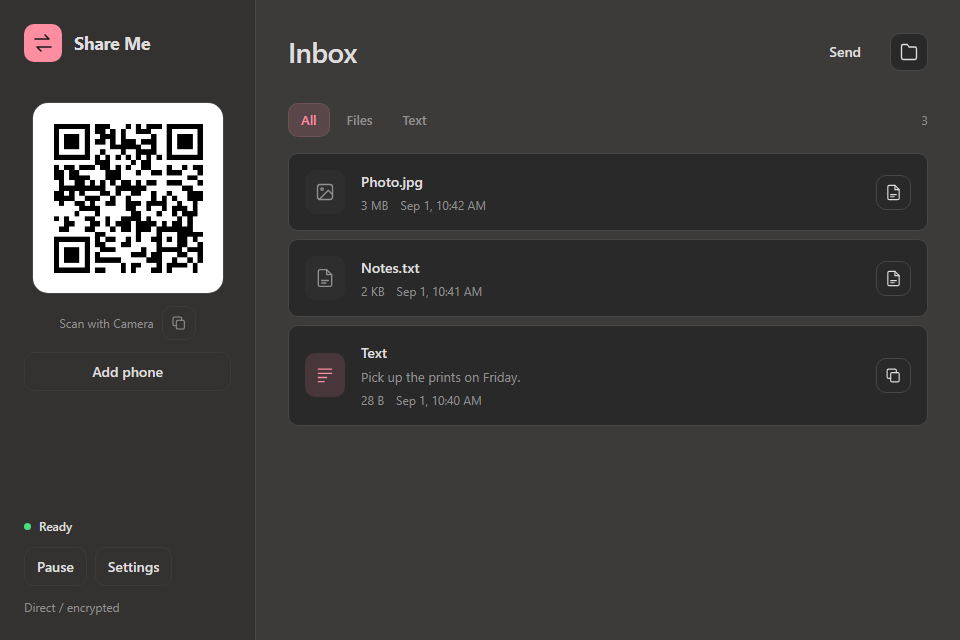
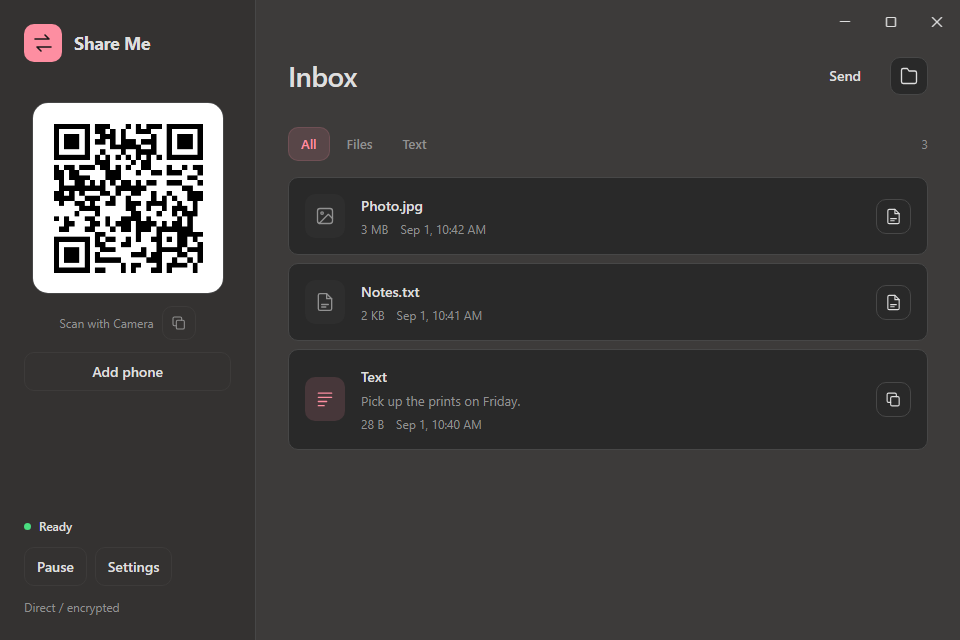
Draw the title bar inside the app
The system title bar did not match the app: a different color, a second copy of the name, and a small caption strip above the content. The window is now frameless and the page draws the title bar itself, so the sidebar and the inbox run to the top edge, the drag area is taller, and the caption buttons use the Windows 11 glyphs, sizes, and hover colors.

Windows still supplies the shadow, rounded corners, snapping, and keyboard window commands. Dragging and edge resizing go through the Wails frameless support. Double-click toggles maximize, Close goes through the same before-close path as before so it still hides to the tray, and the buttons never take focus. A modal dialog makes the rest of the page inert, so the title bar moves into the open dialog and the window can still be moved, minimized, and closed while a prompt is showing.

Checked in the packaged build: maximize and restore, double-click, drag, minimize to tray, close to tray from the corner while maximized, and the dimmed buttons of an inactive window. The site screenshots are recaptured.

diff --git a/frontend/tests/desktop.spec.js b/frontend/tests/desktop.spec.js
@@ -44,6 +44,17 @@ const test = base.extend({
         App[method] = (...args) => window.desktopAction(method, args);
       }
       window.go = { main: { App } };
+      let maximized = false;
+      window.runtime = {
+        WindowMinimise: () => window.desktopAction('WindowMinimise', []),
+        WindowToggleMaximise: () => {
+          maximized = !maximized;
+          window.desktopAction('WindowToggleMaximise', []);
+          window.dispatchEvent(new Event('resize'));
+        },
+        WindowIsMaximised: async () => maximized,
+        Quit: () => window.desktopAction('Quit', []),
+      };
     });
     const errors = [];
     page.on('pageerror', error => errors.push(error.message));
@@ -112,7 +123,7 @@ test.describe('dropdown focus outlines', () => {
   for (const width of [800, 960]) {
     for (const queued of [0, 20]) {
       test(`remain visible at ${width}px with ${queued} queued transfers`, async ({ page, desktop }, testInfo) => {
-        await page.setViewportSize({ width, height: 520 });
+        await page.setViewportSize({ width, height: 560 });
         desktop.state.outbox = Array.from({ length: queued }, (_, i) => ({
           id: `file-${i}`, deviceId: 'phone-1', name: `Queued file ${i + 1}.txt`, kind: 'file', size: 16,
         }));
@@ -163,7 +174,7 @@ for (const colorScheme of ['light', 'dark']) {
   test(`settings fills the workspace at minimum size in ${colorScheme} mode`, async ({ page, desktop }, testInfo) => {
     await page.emulateMedia({ colorScheme });
     await page.reload();
-    await page.setViewportSize({ width: 800, height: 520 });
+    await page.setViewportSize({ width: 800, height: 560 });
     await page.getByRole('button', { name: 'Send', exact: true }).click();
     await page.getByRole('combobox', { name: 'Send to' }).selectOption('phone-2');
     await page.getByRole('button', { name: 'Settings', exact: true }).click();
@@ -196,6 +207,44 @@ for (const colorScheme of ['light', 'dark']) {
     await expect(panel).toBeHidden();
   });
 }
+
+test('the title bar drags the window and its buttons work, even over a dialog', async ({ page, desktop }) => {
+  await page.setViewportSize({ width: 800, height: 560 });
+  const drag = node => getComputedStyle(node).getPropertyValue('--wails-draggable').trim();
+  const titlebar = page.locator('.titlebar');
+  const controls = page.getByRole('group', { name: 'Window', exact: true });
+  expect(await titlebar.evaluate(drag)).toBe('drag');
+  expect(await controls.evaluate(drag)).toBe('no-drag');
+  expect(await controls.getByRole('button').evaluateAll(buttons => buttons.map(button => button.tabIndex))).toEqual([-1, -1, -1]);
+  // The page's own buttons must sit clear of the caption buttons above them.
+  const bar = await controls.boundingBox();
+  expect(bar.x + bar.width).toBe(800);
+  expect(bar.y).toBe(0);
+  for (const name of ['Send', 'Open inbox folder']) {
+    expect((await page.getByRole('button', { name, exact: true }).boundingBox()).y).toBeGreaterThanOrEqual(bar.height + 8);
+  }
+  await page.getByRole('heading', { name: 'Inbox', exact: true }).focus();
+  await controls.getByRole('button', { name: 'Minimize', exact: true }).click();
+  await controls.getByRole('button', { name: 'Maximize', exact: true }).click();
+  await expect(controls.getByRole('button', { name: 'Restore', exact: true })).toHaveAttribute('title', 'Restore');
+  await expect(page.getByRole('heading', { name: 'Inbox', exact: true })).toBeFocused();
+  await titlebar.dblclick({ position: { x: 300, y: 12 } });
+  await expect(controls.getByRole('button', { name: 'Maximize', exact: true })).toBeVisible();
+  expect(desktop.calls).toEqual([['WindowMinimise'], ['WindowToggleMaximise'], ['WindowToggleMaximise']]);
+  // A modal dialog makes the page inert, so the title bar has to follow the dialog.
+  desktop.state.pending = [{ id: 'incoming-1', kind: 'text', state: 'pending', name: 'Text', size: 8, source: 'iPhone', preview: 'Hello PC' }];
+  const dialog = page.getByRole('dialog', { name: 'Receive text?' });
+  await expect(dialog).toBeVisible();
+  expect(await titlebar.evaluate(drag)).toBe('drag');
+  expect(await titlebar.evaluate(node => node.getBoundingClientRect().toJSON())).toMatchObject({ x: 0, y: 0, width: 800, height: 44 });
+  await dialog.getByRole('button', { name: 'Close', exact: true }).click();
+  expect(desktop.calls).toContainEqual(['Quit']);
+  await dialog.getByRole('button', { name: 'Decline', exact: true }).click();
+  await expect(page.getByRole('dialog')).toHaveCount(0);
+  await expect(page.locator('.desktop-shell > .titlebar')).toBeVisible();
+  await controls.getByRole('button', { name: 'Minimize', exact: true }).click();
+  expect(desktop.calls.filter(call => call[0] === 'WindowMinimise')).toHaveLength(2);
+});
 
 test('network controls track sidebar pause and paired phone actions remain available', async ({ page, desktop }) => {
   await page.getByRole('button', { name: 'Settings', exact: true }).click();
@@ -242,7 +291,7 @@ for (const colorScheme of ['light', 'dark']) {
   test(`rename opens a focused dialog and supports cancellation in ${colorScheme} mode`, async ({ page, desktop }, testInfo) => {
     await page.emulateMedia({ colorScheme });
     await page.reload();
-    await page.setViewportSize({ width: 800, height: 520 });
+    await page.setViewportSize({ width: 800, height: 560 });
     await page.getByRole('button', { name: 'Settings', exact: true }).click();
     const button = page.getByRole('group', { name: 'iPhone', exact: true }).getByRole('button', { name: 'Rename', exact: true });
     await expect(page.getByRole('region', { name: 'Paired phones' }).getByRole('textbox')).toHaveCount(0);

diff --git a/frontend/src/desktop.js b/frontend/src/desktop.js
@@ -59,7 +59,22 @@ for (const [value, label] of [['all', 'All'], ['file', 'Files'], ['text', 'Text'
 
 const inboxToolbar = el('div', { class: 'inbox-toolbar' }, tabs, count);
 const inboxSurface = el('section', { class: 'inbox-surface' }, list, empty);
-root.append(el('div', { class: 'desktop-shell minimal-desktop' },
+
+// The window has no system title bar. This strip across the top is its drag area and holds the
+// caption buttons, which like the system's never take focus.
+function captionButton(label, glyph, onclick) {
+  return el('button', { tabindex: -1, title: label, 'aria-label': label, onclick, onmousedown: event => event.preventDefault() }, glyph);
+}
+const maximize = captionButton('Maximize', '\uE922', () => window.runtime?.WindowToggleMaximise?.());
+const titlebar = el('div', { class: 'titlebar', ondblclick: event => {
+  if (event.target === titlebar) window.runtime?.WindowToggleMaximise?.();
+} },
+  el('div', { class: 'window-controls', role: 'group', 'aria-label': 'Window' },
+    captionButton('Minimize', '\uE921', () => window.runtime?.WindowMinimise?.()),
+    maximize,
+    // Quit asks the app first, which hides to the tray when that option is on.
+    captionButton('Close', '\uE8BB', () => window.runtime?.Quit?.())));
+const shell = el('div', { class: 'desktop-shell minimal-desktop' },
   el('aside', { class: 'sidebar' },
     brand(),
     el('section', { class: 'pair-panel', 'aria-label': 'Open on your phone' }, qr,
@@ -71,7 +86,31 @@ root.append(el('div', { class: 'desktop-shell minimal-desktop' },
   el('main', { class: 'workspace' },
     el('header', { class: 'workspace-header' }, heading, el('div', { class: 'cluster' }, changeView, openFolder, closeSettingsButton)),
     banner, active,
-    inboxToolbar, inboxSurface, sendPanel, settingsPanel)));
+    inboxToolbar, inboxSurface, sendPanel, settingsPanel),
+  titlebar);
+root.append(shell);
+
+let windowStateQueued = false;
+window.addEventListener('resize', () => {
+  if (windowStateQueued) return;
+  windowStateQueued = true;
+  requestAnimationFrame(async () => {
+    windowStateQueued = false;
+    const label = await window.runtime?.WindowIsMaximised?.() ? 'Restore' : 'Maximize';
+    maximize.textContent = label === 'Restore' ? '\uE923' : '\uE922';
+    maximize.title = label;
+    maximize.setAttribute('aria-label', label);
+  });
+});
+const markWindowFocus = () => document.documentElement.toggleAttribute('data-window-inactive', !document.hasFocus());
+window.addEventListener('focus', markWindowFocus);
+window.addEventListener('blur', markWindowFocus);
+
+// A modal dialog makes the rest of the page inert. The title bar moves into the open dialog so the
+// window can still be dragged, minimized, and closed, as it can with a system title bar.
+function placeTitlebar() {
+  ([...document.querySelectorAll('dialog[open]')].at(-1) ?? shell).append(titlebar);
+}
 
 function api() {
   if (!window.go?.main?.App) throw new Error('Open ShareMe.exe to use the desktop inbox.');
@@ -326,9 +365,13 @@ function renderItems() {
 function dialog(title, ...content) {
   const node = el('dialog', { 'aria-label': title },
     el('header', { class: 'dialog-heading' }, el('h2', {}, title)), ...content.filter(Boolean));
-  node.addEventListener('close', () => node.remove());
+  node.addEventListener('close', () => {
+    node.remove();
+    placeTitlebar();
+  });
   document.body.append(node);
   node.showModal();
+  placeTitlebar();
   return node;
 }
 

diff --git a/frontend/src/style.css b/frontend/src/style.css
@@ -30,6 +30,14 @@ h3 { font-size: 15px; font-weight: 600; }
 .brand { display: flex; align-items: center; gap: var(--space-3); font-size: 18px; font-weight: 650; letter-spacing: -.4px; }
 .brand-mark { display: grid; place-items: center; width: 38px; height: 38px; border-radius: var(--radius); background: var(--cp-accent); color: var(--cp-accent-fg); }
 .desktop-shell { display: grid; grid-template-columns: 256px minmax(0, 1fr); height: 100vh; }
+.titlebar { position: fixed; inset: 0 0 auto; z-index: 1; height: var(--titlebar); display: flex; justify-content: flex-end; user-select: none; --wails-draggable: drag; }
+.window-controls { display: flex; --wails-draggable: no-drag; }
+.window-controls button { width: 46px; height: 100%; min-height: 0; padding: 0; border: 0; border-radius: 0; background: none; font: 10px/1 "Segoe Fluent Icons", "Segoe MDL2 Assets"; cursor: default; }
+.window-controls button:hover:not(:disabled) { background: color-mix(in srgb, currentColor 9%, transparent); }
+.window-controls button:active:not(:disabled) { background: color-mix(in srgb, currentColor 6%, transparent); }
+.window-controls button:last-child:hover:not(:disabled) { background: #c42b1c; color: #fff; }
+.window-controls button:last-child:active:not(:disabled) { background: #b3271a; color: #fff; }
+html[data-window-inactive] .window-controls button:not(:hover) { color: var(--cp-text-soft); }
 .sidebar { background: var(--cp-bg-elevated); border-right: 1px solid var(--cp-border); padding: var(--space-6); display: flex; flex-direction: column; gap: var(--space-10); overflow-y: auto; }
 .sidebar-footer { margin-top: auto; display: grid; gap: var(--space-3); }
 .sidebar-footer .cluster { gap: var(--space-2); }
@@ -56,6 +64,7 @@ h3 { font-size: 15px; font-weight: 600; }
 .receive-card .transfer-name { display: block; min-width: 0; }
 .receive-card pre { white-space: pre-wrap; overflow-wrap: anywhere; max-height: 220px; overflow: auto; font: inherit; }
 .workspace { padding: var(--space-8); display: flex; flex-direction: column; min-width: 0; min-height: 0; }
+.desktop-shell .workspace { padding-top: calc(var(--titlebar) + var(--space-3)); }
 .workspace-header { display: flex; align-items: center; justify-content: space-between; gap: var(--space-4); padding-bottom: var(--space-8); flex-shrink: 0; }
 .workspace-header h1:focus { outline: none; }
 .inbox-toolbar { display: flex; justify-content: space-between; gap: var(--space-4); align-items: center; margin-bottom: var(--space-4); }

diff --git a/frontend/src/theme.css b/frontend/src/theme.css
@@ -65,4 +65,5 @@ html[data-theme="dark"] {
   --space-10: 40px;
   --radius: .625rem;
   --radius-panel: 16px;
+  --titlebar: 44px;
 }

diff --git a/main.go b/main.go
@@ -39,6 +39,9 @@ func main() {
 	err = wails.Run(&options.App{
 		Title: "Share Me", Width: 960, Height: 680,
 		MinWidth: 800, MinHeight: 560,
+		// The page draws its own title bar so it can match the app. Windows keeps the frame's
+		// shadow, rounded corners, snapping, and keyboard window commands.
+		Frameless:   true,
 		AssetServer: &assetserver.Options{Assets: assets},
 		OnStartup:   app.startup, OnShutdown: app.shutdown,
 		OnDomReady: app.domReady, OnBeforeClose: app.beforeClose,
